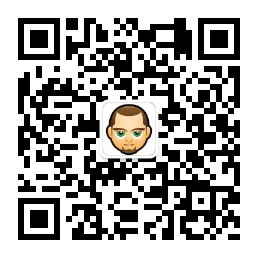
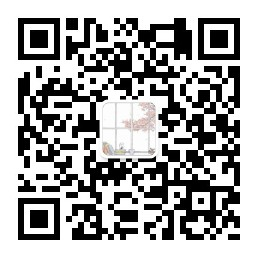
rebuilding site by hugo

Changed region(s): [[0.3721, 0.3721, 0.6202, 0.6202]]

diff --git a/themes/next/layouts/partials/widgets/weixin.html b/themes/next/layouts/partials/widgets/weixin.html
@@ -8,7 +8,7 @@
         <p style="margin-top:0px;">
             标题：{{ .Title }}
         <br />作者：<a target="_blank" href="/">{{ .Site.Author.name }}</a>
-        <br />关注：lanlingthink（蘭陵N散記）
+        <br />关注：lanlingthink（览聆时刻）
         <br />声明：自由转载-非商用-非衍生-保持署名（创作共享3.0许可证）
         </p>
     </div>

diff --git a/themes/next/layouts/_default/single.html b/themes/next/layouts/_default/single.html
@@ -23,6 +23,7 @@
      {{ partial "widgets/baidushare.html" .}}
      {{ partial "widgets/duoshuoshare.html" .}}
      {{ partial "widgets/comment.html" .}}
+     {{ partial "widgets/weixin.html" .}}
     </footer>
   </article>
 </section>
